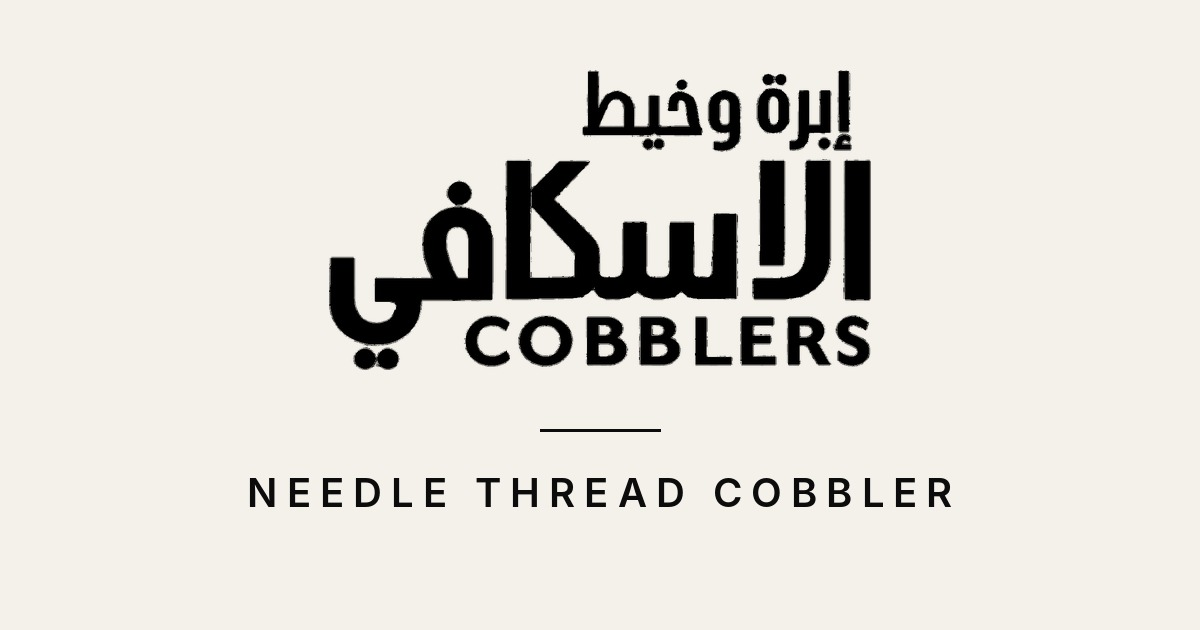
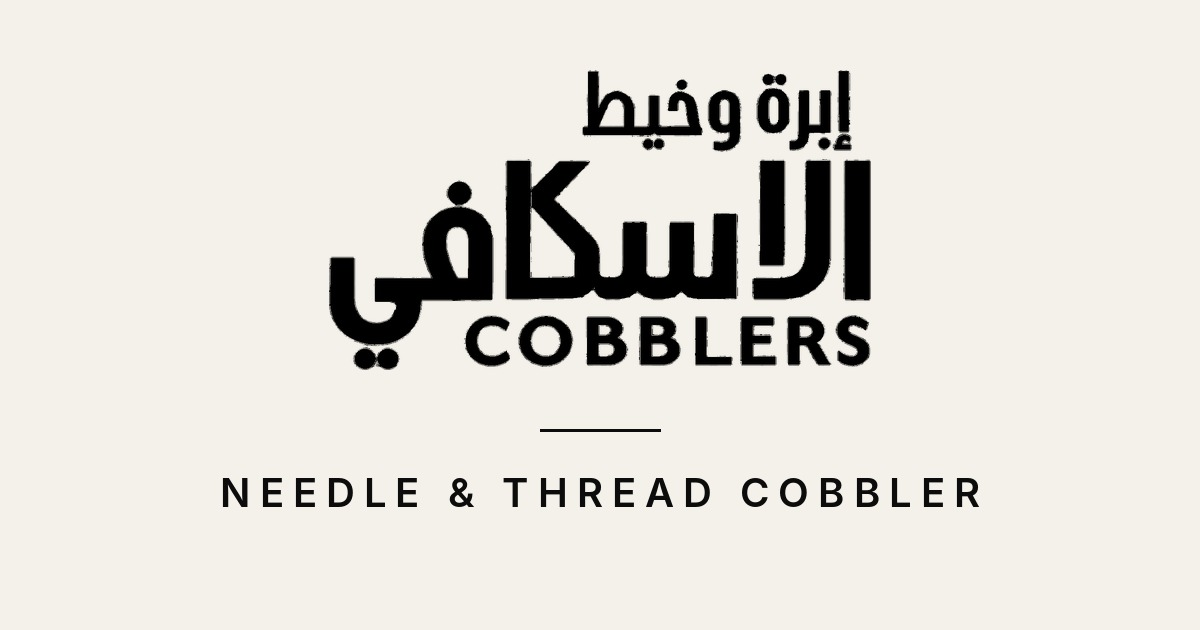
brand: share image text 'NEEDLE & THREAD COBBLER'
Claude-Session: https://claude.ai/code/session_01CXsXscEEkTN6D3gM9HmCVx

Changed region(s): [[0.185, 0.754, 0.8325, 0.8143]]

diff --git a/index.html b/index.html
@@ -41,7 +41,7 @@
     <meta property="og:image" content="https://www.needlecobbler.com/og-image-v2.jpg" />
     <meta property="og:image:width" content="1200" />
     <meta property="og:image:height" content="630" />
-    <meta property="og:image:alt" content="إبرة وخيط الإسكافي — Needle Thread Cobbler" />
+    <meta property="og:image:alt" content="إبرة وخيط الإسكافي — Needle & Thread Cobbler" />
     <meta property="og:locale" content="ar_SA" />
     <meta property="og:site_name" content="إبرة وخيط الإسكافي" />
     
